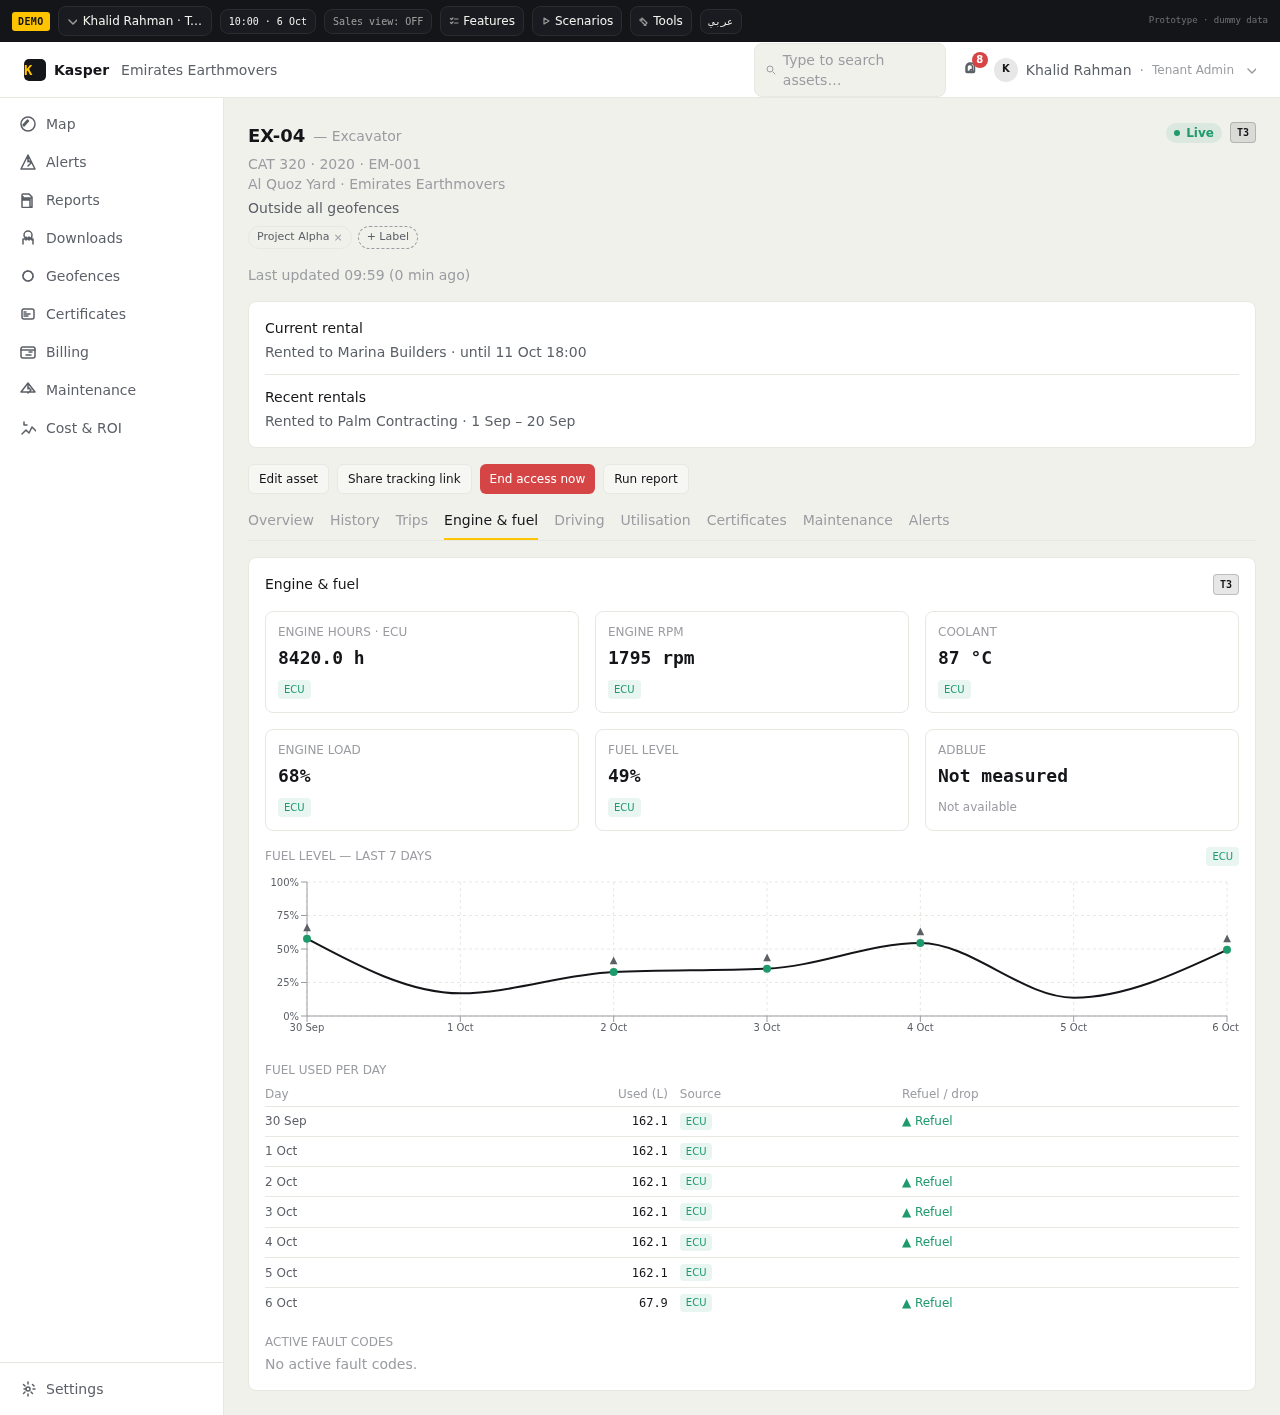
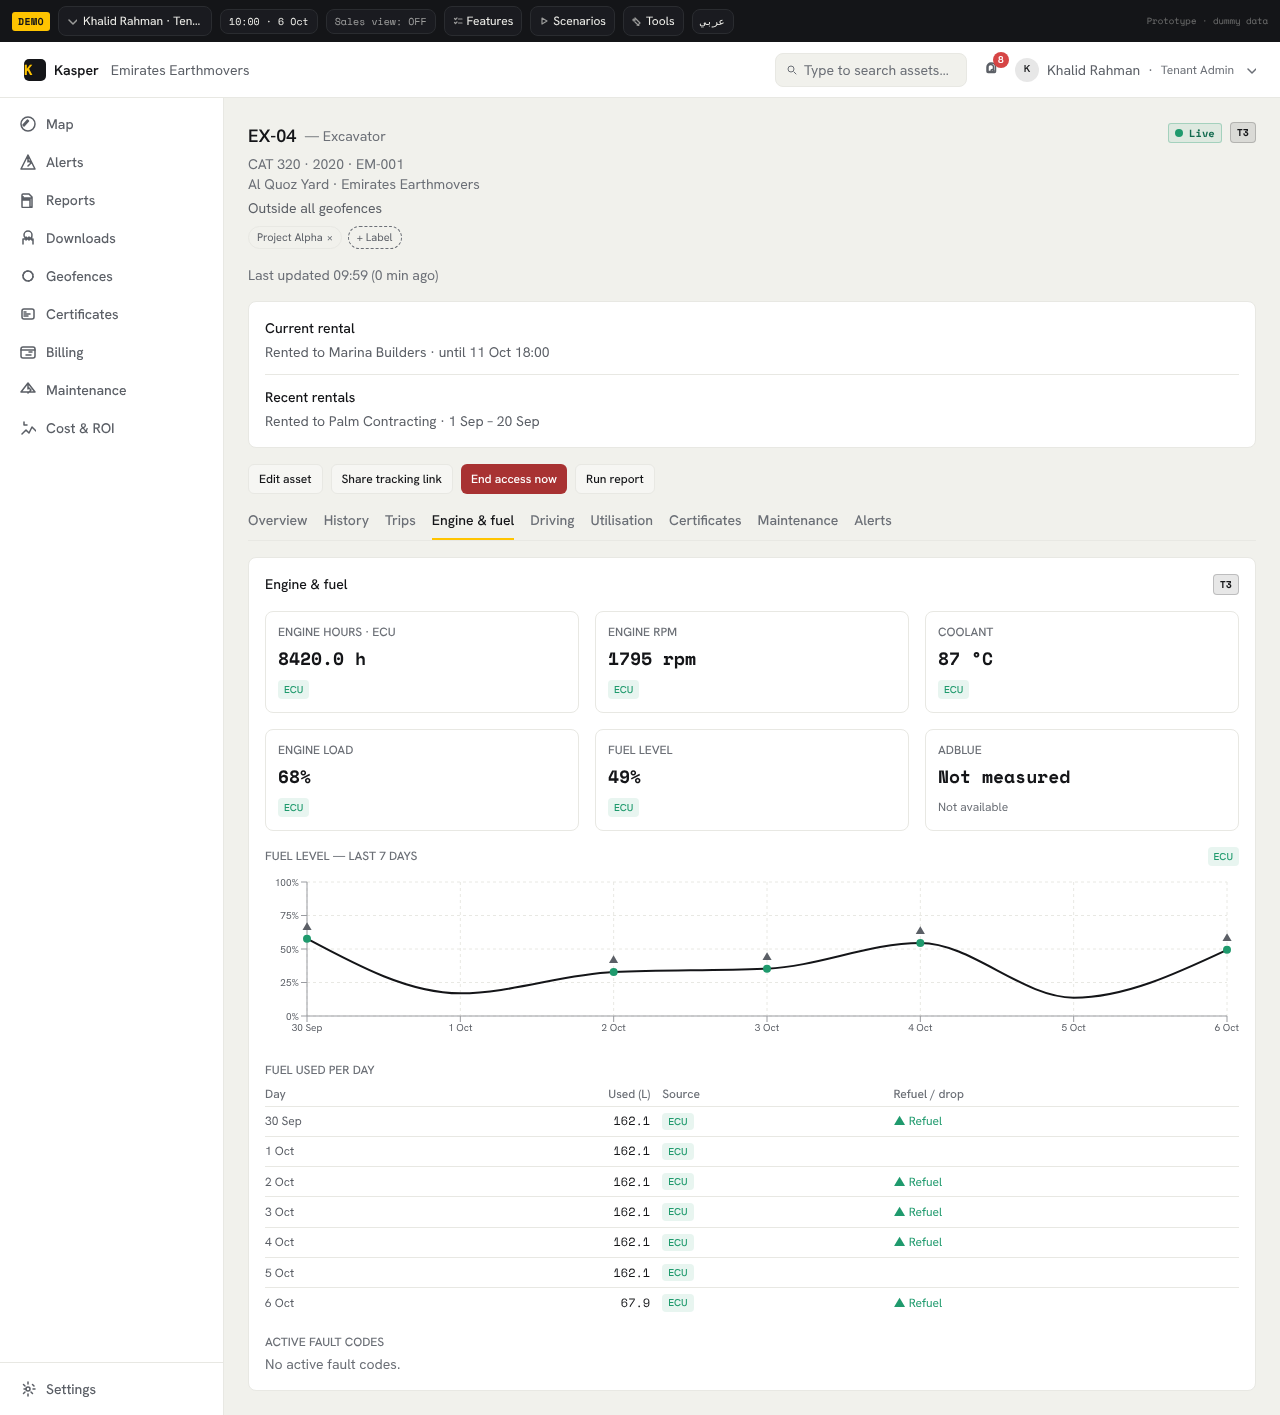
B2 (WIP): UI kit gallery on /dev/ui

diff --git a/app/dev/ui/KitGallery.tsx b/app/dev/ui/KitGallery.tsx
@@ -1,0 +1,144 @@
+'use client';
+
+// /dev/ui — the B2 UI kit (UI-UPGRADE §4). Example values only, each with its
+// source or "Not measured", so the components can be checked by eye and by
+// screenshot at 1440 and 390 px.
+
+import React, { useState } from 'react';
+import {
+  Badge, BottomSheet, Button, ConfirmDialog, CopyButton, KpiCell, KpiStrip, MetricTile, Panel,
+  ProgressBar, RowMenu, SegmentedTabs, SideSheet, Sparkline, StatusDot, Table, TONES,
+} from '@/components/ui';
+
+type Row = { id: string; code: string; left: string; due: string; status: 'ok' | 'warn' | 'bad' };
+
+const ROWS: Row[] = [
+  { id: 'r1', code: 'EX-04', left: '80 h', due: '~ 6 days', status: 'warn' },
+  { id: 'r2', code: 'BD-02', left: '−30 h', due: 'Overdue', status: 'bad' },
+  { id: 'r3', code: 'GN-01', left: '412 h', due: '~ 5 weeks', status: 'ok' },
+];
+
+export function KitGallery() {
+  const [kpi, setKpi] = useState<string | null>('critical');
+  const [tab, setTab] = useState('overview');
+  const [side, setSide] = useState(false);
+  const [bottom, setBottom] = useState(false);
+  const [confirm, setConfirm] = useState(false);
+
+  return (
+    <section className="mb-10 space-y-6" data-testid="kit-gallery">
+      <div>
+        <h2 className="text-title text-ink">UI kit (B2)</h2>
+        <p className="mt-1 text-sm text-text-secondary">Example values for the component preview only.</p>
+      </div>
+
+      <div>
+        <div className="text-eyebrow mb-2">KpiStrip · KpiCell</div>
+        <KpiStrip label="Alerts summary (example)">
+          <KpiCell label="New today" value="7" source="From alerts" onClick={() => setKpi('new')} active={kpi === 'new'} />
+          <KpiCell label="Critical" value="2" tone="bad" context="1 offline · 1 power cut" source="From alerts" onClick={() => setKpi('critical')} active={kpi === 'critical'} />
+          <KpiCell label="Warning" value="5" tone="warn" source="From alerts" onClick={() => setKpi('warning')} active={kpi === 'warning'} />
+          <KpiCell label="Fuel used today" value={null} />
+        </KpiStrip>
+      </div>
+
+      <div>
+        <div className="text-eyebrow mb-2">MetricTile · ProgressBar · Sparkline</div>
+        <div className="grid grid-cols-2 gap-2 sm:max-w-md">
+          <MetricTile label="Engine hours" value="1,284" unit="h" source="ECU" />
+          <MetricTile label="Fuel level" value={null} unit="%" />
+          <MetricTile label="Service in" value="80" unit="h" tone="warn" source="ECU" />
+          <MetricTile label="Idle today" value="1.4" unit="h" source="Estimated" />
+        </div>
+        <div className="mt-3 grid gap-3 sm:max-w-md">
+          <ProgressBar label="Fuel tank" value={62} valueLabel="62%" tone="ok" />
+          <ProgressBar label="Service interval used" value={220} max={250} valueLabel="220 / 250 h" tone="warn" />
+          <ProgressBar label="AdBlue" value={null} />
+          <div className="flex items-center gap-3 text-sm text-text-secondary">
+            <Sparkline values={[4, 6, 5, 8, 7, 9, 6]} label="Engine hours per day, last 7 days (example)" area />
+            <span>Engine hours per day (example)</span>
+          </div>
+        </div>
+      </div>
+
+      <div>
+        <div className="text-eyebrow mb-2">Badge · StatusDot</div>
+        <div className="flex flex-wrap items-center gap-2">
+          {TONES.map(t => (
+            <Badge key={t} tone={t} dot>{t}</Badge>
+          ))}
+          <span className="inline-flex items-center gap-1.5 text-sm"><StatusDot status="live" /> Live</span>
+          <span className="inline-flex items-center gap-1.5 text-sm"><StatusDot status="offline" pulse /> Offline</span>
+        </div>
+      </div>
+
+      <div>
+        <div className="text-eyebrow mb-2">SegmentedTabs</div>
+        <div className="max-w-sm">
+          <SegmentedTabs
+            label="Asset sections (example)"
+            value={tab}
+            onChange={setTab}
+            idPrefix="kit"
+            tabs={[
+              { id: 'overview', label: 'Overview' },
+              { id: 'history', label: 'History' },
+              { id: 'engine', label: 'Engine & fuel' },
+              { id: 'alerts', label: 'Alerts', count: 3 },
+              { id: 'maintenance', label: 'Maintenance' },
+              { id: 'documents', label: 'Documents' },
+            ]}
+          />
+        </div>
+      </div>
+
+      <Panel
+        title="Service schedule (example)"
+        eyebrow="Table · RowMenu · CopyButton"
+        padding="none"
+        actions={<Button size="sm" variant="secondary" onClick={() => setSide(true)}>Side sheet</Button>}
+      >
+        <Table<Row>
+          caption="Service schedule (example)"
+          keyField="id"
+          rows={ROWS}
+          maxHeight="240px"
+          columns={[
+            { key: 'code', header: 'Asset', mono: true, render: r => (
+              <span className="inline-flex items-center gap-1">{r.code}<CopyButton value={r.code} label={`Copy ${r.code}`} /></span>
+            ) },
+            { key: 'left', header: 'Hours left', numeric: true, render: r => r.left },
+            { key: 'due', header: 'Approx. due', render: r => <Badge tone={r.status}>{r.due}</Badge> },
+          ]}
+          rowMenu={r => [
+            { id: 'log', label: 'Log service', onSelect: () => setSide(true) },
+            { id: 'skip', label: 'Remove from plan', onSelect: () => setConfirm(true), destructive: true },
+          ].filter(() => r.id !== 'r3')}
+          rowMenuLabel={r => `Actions for ${r.code}`}
+        />
+      </Panel>
+
+      <div className="flex flex-wrap gap-2">
+        <Button variant="secondary" size="sm" onClick={() => setBottom(true)}>Bottom sheet</Button>
+        <Button variant="danger" size="sm" onClick={() => setConfirm(true)}>Confirm dialog</Button>
+        <RowMenu items={[{ id: 'a', label: 'Standalone menu item', onSelect: () => {} }]} label="Example menu" />
+      </div>
+
+      <SideSheet open={side} onClose={() => setSide(false)} title="EX-04" eyebrow="Asset (example)" footer={<Button onClick={() => setSide(false)}>Done</Button>}>
+        <p className="text-sm text-text-secondary">Right-hand panel content.</p>
+      </SideSheet>
+      <BottomSheet open={bottom} onClose={() => setBottom(false)} title="Filters (example)" footer={<Button onClick={() => setBottom(false)}>Apply</Button>}>
+        <p className="text-sm text-text-secondary">Phone panel content.</p>
+      </BottomSheet>
+      <ConfirmDialog
+        open={confirm}
+        title="Remove BD-02 from the plan?"
+        body="Example only: nothing is changed."
+        confirmLabel="Remove"
+        destructive
+        onConfirm={() => setConfirm(false)}
+        onCancel={() => setConfirm(false)}
+      />
+    </section>
+  );
+}

diff --git a/app/dev/ui/page.tsx b/app/dev/ui/page.tsx
@@ -11,6 +11,7 @@ import {
   InlineConfirm,
 } from '@/components/ui';
 import type { AssetStatus } from '@/domain/types';
+import { KitGallery } from './KitGallery';
 
 export default function DevUiPage() {
   const [sheetOpen, setSheetOpen] = useState(false);
@@ -34,6 +35,8 @@ export default function DevUiPage() {
             </div>
           </div>
         </div>
+
+        <KitGallery />
 
         {/* Button */}
         <section className="mb-8">
